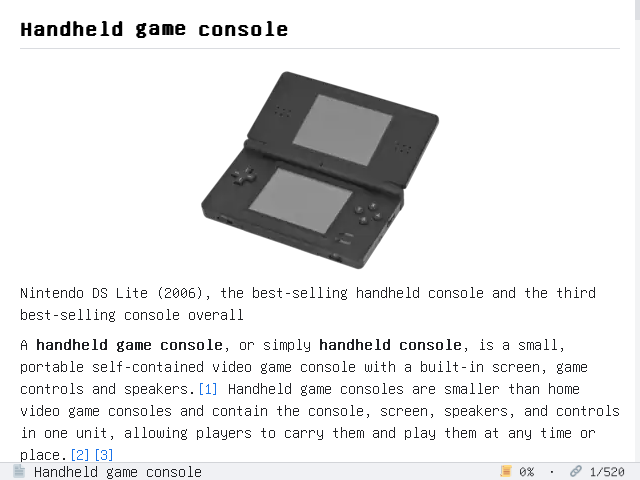
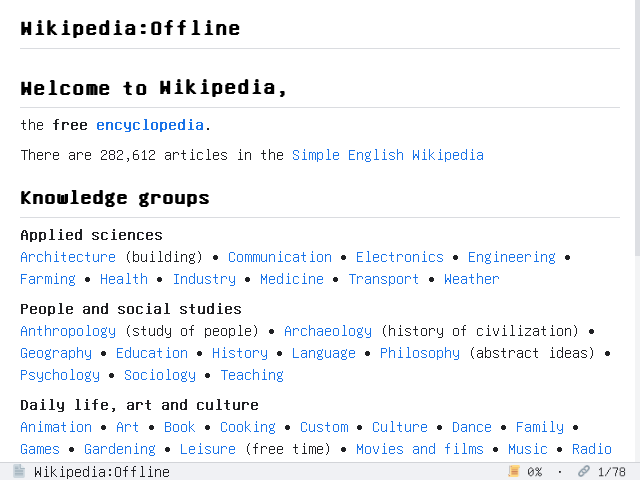
fix(input): analog stick acceleration, PortMaster cover path
- input.go: axisHold with speed ramp while stick held
- gameinfo.xml: fix image path cover.png → screenshot.png

diff --git a/internal/ui/input.go b/internal/ui/input.go
@@ -31,6 +31,7 @@ type InputController struct {
 	treeKeys      map[sdl.Scancode]func()
 	upHold        scrollHold
 	downHold      scrollHold
+	axisHold      scrollHold
 	axisRemainder float64
 	lastAxisTime  time.Time
 }
@@ -226,17 +227,24 @@ func (c *InputController) Update(now time.Time) {
 	c.updateDocumentHold(&c.upHold, upHeld, -1, 1, now)
 	c.updateDocumentHold(&c.downHold, downHeld, 1, 1, now)
 	if axisDirection == 0 {
+		c.axisHold.active = false
 		c.lastAxisTime = time.Time{}
 		c.axisRemainder = 0
 		return
 	}
-	if c.lastAxisTime.IsZero() {
+	if !c.axisHold.active || c.axisHold.direction != axisDirection {
+		c.axisHold = scrollHold{active: true, started: now, lastStep: now, direction: axisDirection}
 		c.lastAxisTime = now
+		c.axisRemainder = 0
 		return
 	}
 	seconds := now.Sub(c.lastAxisTime).Seconds()
 	c.lastAxisTime = now
-	c.axisRemainder += analogMaxSpeed * axisStrength * seconds
+	speed := analogMaxSpeed * axisStrength
+	if now.Sub(c.axisHold.started) >= holdDelay {
+		speed *= math.Pow(2, math.Floor(now.Sub(c.axisHold.started).Seconds()))
+	}
+	c.axisRemainder += speed * seconds
 	delta := int32(c.axisRemainder)
 	if delta == 0 {
 		return